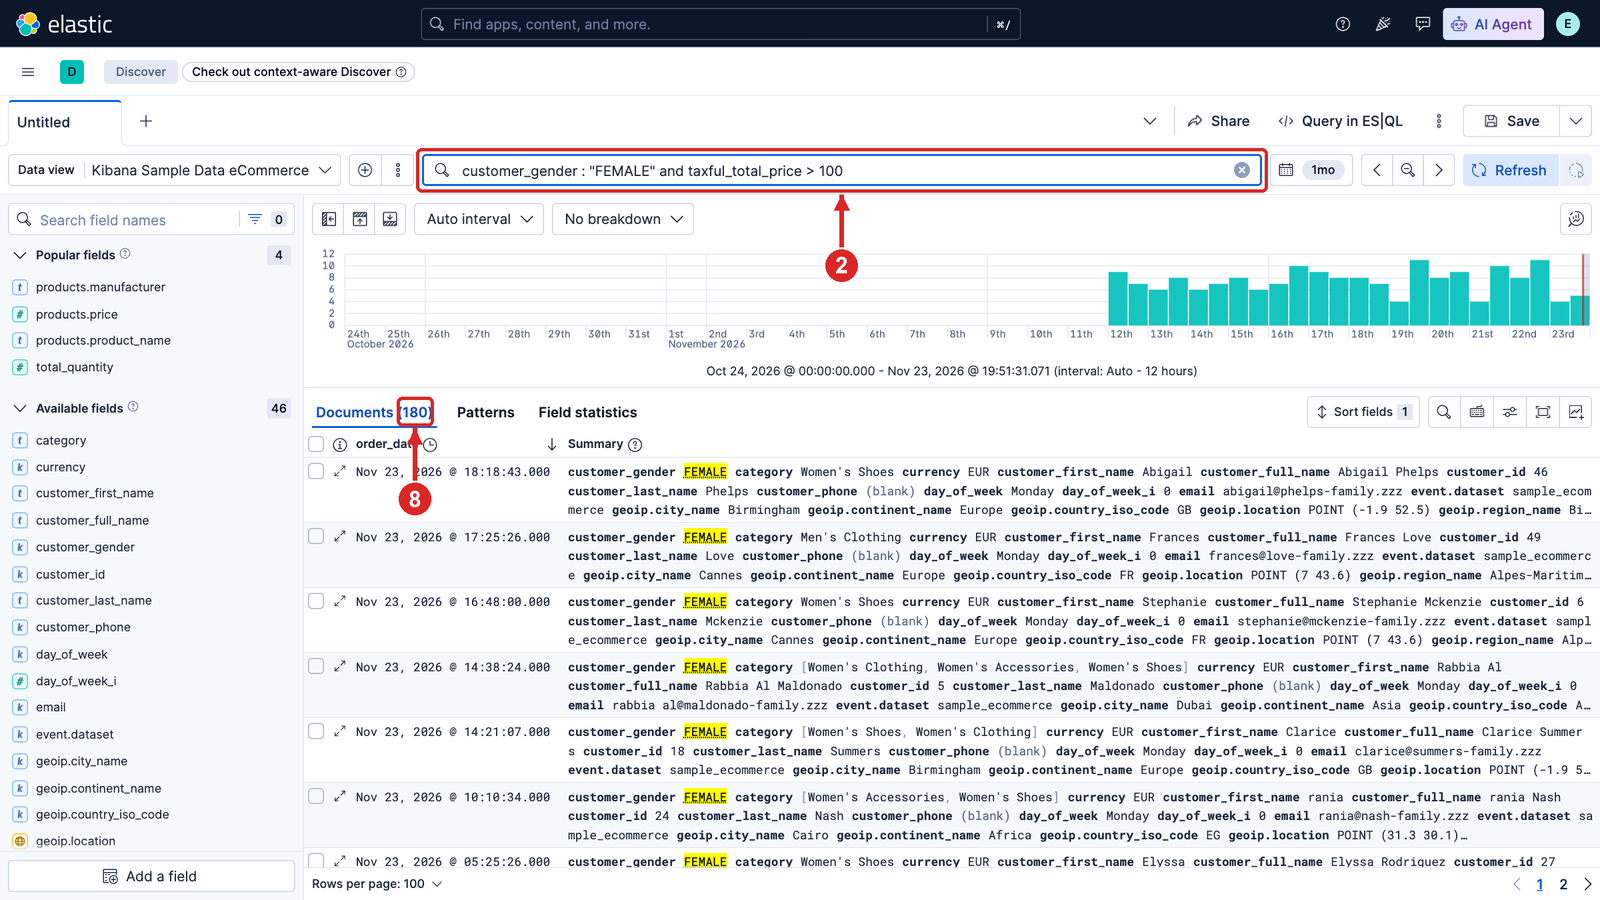
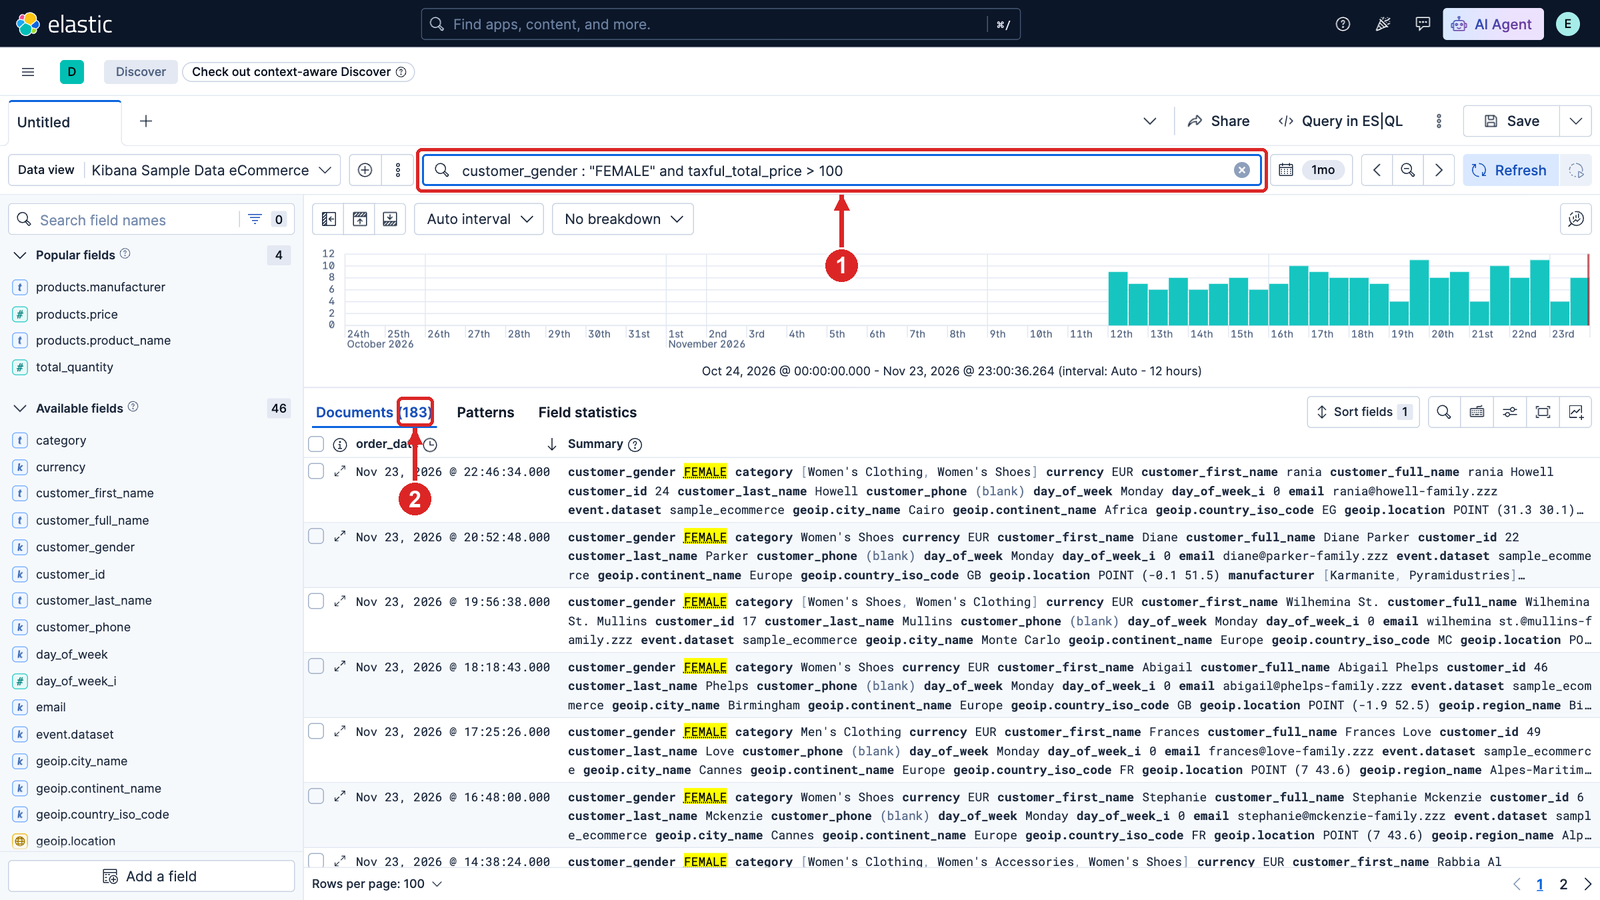
docs+test(LAB-04): saved search added to a dashboard; markers numbered per step
- Step 5 box "Kayıtlı aramayı panoya eklemek": Add > From library, saved search as a panel, dashboard "Kadın siparişleri"
- Screenshot markers renumbered from 1 in every step (text and alt texts match)
- teardown.sh also deletes the dashboard "Kadın siparişleri"
- shots_lab04.py: waits for the filter result to refresh before the screenshot (old shot could show the KQL count);
  library search needs Enter

Test (34.141.96.128, Kibana 9.5.5, base d49763e): teardown -> README runner PASS=4 FAIL=0;
UI flows discover + pano in README order: KQL 183, two filters 199, dashboard panel 1 with 199 documents;
teardown output "pano -> 1", "kayitli arama -> 1"; link_kontrol kirik link 0; komut denetimi AYNI.

diff --git a/scripts/screenshots/shots_lab04.py b/scripts/screenshots/shots_lab04.py
@@ -62,9 +62,9 @@ def discover(page):
     page.locator('[data-test-subj="field-customer_gender-showDetails"]').first.click(); time.sleep(2)
     k.shoot(page, LAB, "03-discover-tur", [
         (("testsubj", "discover-dataView-switch-link"), 1, "down"),
-        (("testsubj", "dateRangePickerControlButton"), 4, "down"),
-        (("testsubj", "field-customer_gender-showDetails"), 6, "right"),
-        (("css", '[data-test-subj="docTableExpandToggleColumn"] button, [data-test-subj="docTableExpandToggleColumn"]'), 10, "right"),
+        (("testsubj", "dateRangePickerControlButton"), 2, "down"),
+        (("testsubj", "field-customer_gender-showDetails"), 3, "right"),
+        (("css", '[data-test-subj="docTableExpandToggleColumn"] button, [data-test-subj="docTableExpandToggleColumn"]'), 4, "right"),
     ])
     page.keyboard.press("Escape"); time.sleep(1)
 
@@ -73,8 +73,8 @@ def discover(page):
     ana = sayi(page)
     print("ANA", ana)
     k.shoot(page, LAB, "04-discover-kql", [
-        (("testsubj", "queryInput"), 2, "down"),
-        (("testsubj", "discoverQueryHits"), 8, "down"),
+        (("testsubj", "queryInput"), 1, "down"),
+        (("testsubj", "discoverQueryHits"), 2, "down"),
     ])
     for soru, q in SORULAR:
         sorgu(page, q)
@@ -98,11 +98,16 @@ def discover(page):
         return page.locator('[data-test-subj="saveFilter"]').first
     kaydet = filtre("customer_gender", "is", ["FEMALE"])
     k.shoot(page, LAB, "05-filtre", [
-        (("testsubj", "addFilter"), 3, "down"),
+        (("testsubj", "addFilter"), 1, "down"),
         (("testsubj", "filterParams"), None, "left"),
     ])
     kaydet.click(); k.settle(page, 4)
+    once = sayi(page)
     filtre("taxful_total_price", "is between", ["100"]).click(); k.settle(page, 5)
+    for _ in range(30):  # sonuc yenilenmeden ekran alinmasin (Cancel kalkip sayi degisene kadar)
+        if sayi(page) != once and not page.get_by_role("button", name="Cancel").count():
+            break
+        time.sleep(1)
     fsay = sayi(page)
     print(f"FILTRE KQL={ana} filtre={fsay}")
     k.shoot(page, LAB, "06-filtre-etiket", [
@@ -116,7 +121,7 @@ def discover(page):
     st = page.locator('[data-test-subj="storeTimeWithSearch"]').first
     print("STORE_TIME varsayilan:", st.get_attribute("aria-checked"), st.is_checked() if st.count() else None)
     k.shoot(page, LAB, "07-discover-kaydet", [
-        (("testsubj", "savedObjectTitle"), 12, "left"),
+        (("testsubj", "savedObjectTitle"), 1, "left"),
         (("testsubj", "storeTimeWithSearch"), None, "left"),
     ])
     page.locator('[data-test-subj="confirmSaveSavedObjectButton"]').first.click(); k.settle(page, 5)
@@ -124,7 +129,7 @@ def discover(page):
     # Adim 6: Inspect
     page.locator('[data-test-subj="app-menu-overflow-button"]').first.click(); time.sleep(1.5)
     k.shoot(page, LAB, "08-discover-inspect-menu", [
-        (("role", "menuitem", "Inspect tab"), 13, "left"),
+        (("role", "menuitem", "Inspect tab"), 1, "left"),
     ])
     page.get_by_role("menuitem", name="Inspect tab").first.click(); time.sleep(3)
     if page.locator('[data-test-subj="inspectorViewChooser"]').count():
@@ -132,8 +137,8 @@ def discover(page):
         page.locator('[data-test-subj="inspectorViewChooserRequests"]').first.click(); time.sleep(2)
     page.locator('[data-test-subj="inspectorRequestDetailRequest"]').first.click(); time.sleep(2)
     k.shoot(page, LAB, "09-discover-inspect", [
-        (("testsubj", "inspectorRequestDetailRequest"), 14, "up"),
-        (("testsubj", "inspectorRequestCodeViewerContainer"), 15, None),
+        (("testsubj", "inspectorRequestDetailRequest"), 2, "up"),
+        (("testsubj", "inspectorRequestCodeViewerContainer"), 3, None),
     ])
     metin = page.locator('[data-test-subj="inspectorRequestCodeViewerContainer"]').first.inner_text()
     try:
@@ -144,11 +149,38 @@ def discover(page):
     page.keyboard.press("Escape"); time.sleep(1)
 
 
+def pano(page):
+    """Adim 5 kutusu: kayitli aramayi (Discover session) yeni panoya eklemek."""
+    page.goto(k.BASE + "/app/dashboards#/create", wait_until="domcontentloaded"); k.settle(page, 6)
+    page.locator('[data-test-subj="dashboardAddTopNavButton"]').first.click(); time.sleep(2)
+    page.locator('[data-test-subj="addToDashboardTab-library"]').first.click(); time.sleep(2)
+    page.locator('[data-test-subj="savedObjectFinderSearchInput"]').first.fill("Kadın")
+    page.keyboard.press("Enter")  # arama Enter ile calisir
+    hedef = '[data-test-subj="savedObjectTitleKadın-100-dolar-üstü-siparişler"]'
+    page.locator(hedef).first.wait_for(timeout=15000); time.sleep(1)
+    k.shoot(page, LAB, "10-pano-from-library", [
+        (("testsubj", "addToDashboardTab-library"), 1, "right"),
+        (("testsubj", "savedObjectFinderSearchInput"), 2, "left"),
+        (("css", hedef), 3, "left")])
+    page.locator(hedef).first.click(); k.settle(page, 4)
+    page.keyboard.press("Escape"); time.sleep(1)
+    for b in ('[data-test-subj="euiFlyoutCloseButton"]',):
+        if page.locator(b).count(): page.locator(b).first.click(); time.sleep(1)
+    page.locator('[data-test-subj="dateRangePickerControlButton"]').first.click(); time.sleep(1.5)
+    page.locator('[data-test-subj="dateRangePickerPresetItem-Last_30_days"]').first.click(); k.settle(page, 6)
+    page.locator('[data-test-subj="dashboardInteractiveSaveMenuItem"]').first.click(); time.sleep(2)
+    page.locator('[data-test-subj="savedObjectTitle"]').fill("Kadın siparişleri")
+    page.locator('[data-test-subj="confirmSaveSavedObjectButton"]').first.click(); k.settle(page, 6)
+    page.mouse.move(800, 60); time.sleep(1)
+    print("panel sayisi:", page.locator('[data-test-subj="dashboardPanel"]').count())
+    k.shoot(page, LAB, "11-pano-kayitli-arama", [(("css", '[data-test-subj="dashboardPanel"]'), 4, "right")])
+
+
 if __name__ == "__main__":
     parca = sys.argv[1]
     with sync_playwright() as pw:
         br = pw.chromium.launch(channel="chrome")
         page = br.new_page(viewport={"width": 1600, "height": 900}, device_scale_factor=k.SCALE)
         k.login(page)
-        {"veri": veri, "discover": discover}[parca](page)
+        {"veri": veri, "discover": discover, "pano": pano}[parca](page)
         br.close()

diff --git a/labs/LAB-04-discover-kql/README.md b/labs/LAB-04-discover-kql/README.md
@@ -114,12 +114,12 @@ geçmiş kısmı gösterir (bu koşuda 4675'in 1727'si); sayılar sizde farklıd
 **Soru: Discover ekranında nereye bakarız?**
 
 1. **Discover**'ı açın; **Data view**: **Kibana Sample Data eCommerce** (1)
-2. Zaman kutusu: **Last 30 days** (4)
-3. Field listesinde (6) `customer_gender`'a tıklayın: en sık değerler ve oranları görünür
-4. Bir satırın başındaki genişletme simgesi (10) document'in bütün field'larını açar
+2. Zaman kutusu: **Last 30 days** (2)
+3. Field listesinde (3) `customer_gender`'a tıklayın: en sık değerler ve oranları görünür
+4. Bir satırın başındaki genişletme simgesi (4) document'in bütün field'larını açar
 5. **Field statistics** sekmesi: sorgu yazmadan her field'ın değer dağılımını gösterir
 
-![Discover: 1 data view, 4 zaman, 6 field listesi, 10 document açma](../../assets/screenshots/LAB-04/03-discover-tur.png)
+![Discover: 1 data view, 2 zaman, 3 field listesi, 4 document açma](../../assets/screenshots/LAB-04/03-discover-tur.png)
 
 Üstteki sayı seçili zaman aralığındaki document sayısıdır; histogram aynı document'leri güne göre sayar.
 
@@ -127,15 +127,15 @@ geçmiş kısmı gösterir (bu koşuda 4675'in 1727'si); sayılar sizde farklıd
 
 **Soru:** Son 30 günde 100 dolardan pahalı kadın müşteri siparişleri kaç?
 
-**KQL:** arama çubuğuna (2) yazıp Enter'a basın:
+**KQL:** arama çubuğuna (1) yazıp Enter'a basın:
 
 ```text
 customer_gender : "FEMALE" and taxful_total_price > 100
 ```
 
-**Ekranda:** **Documents** sekmesindeki sayı (8) cevaptır; histogram yalnız bu siparişleri gösterir:
+**Ekranda:** **Documents** sekmesindeki sayı (2) cevaptır; histogram yalnız bu siparişleri gösterir:
 
-![Discover KQL: 2 sorgu, 8 document sayısı](../../assets/screenshots/LAB-04/04-discover-kql.png)
+![Discover KQL: 1 sorgu, 2 document sayısı](../../assets/screenshots/LAB-04/04-discover-kql.png)
 
 - **`customer_gender : "FEMALE"`:** `keyword` field'ında tam değer
 - **`taxful_total_price > 100`:** sayı aralığı; **`and`** ikisi birlikte
@@ -164,10 +164,10 @@ Ana sorgu bu koşuda **180** document buldu.
 **Soru: Aynı koşulu yazmadan, tıklayarak kurabilir miyiz?**
 
 1. Arama çubuğunu temizleyin
-2. Filtre ekleme simgesi (3): **Field** `customer_gender`, **Operator** `is`, **Value** `FEMALE`, **Add filter**
+2. Filtre ekleme simgesi (1): **Field** `customer_gender`, **Operator** `is`, **Value** `FEMALE`, **Add filter**
 3. İkinci filtre: `taxful_total_price`, `is between`, alt sınır `100`, üst sınır boş
 
-![Filtre: 3 filtre ekleme; field, operator, value](../../assets/screenshots/LAB-04/05-filtre.png)
+![Filtre: 1 filtre ekleme; field, operator, value](../../assets/screenshots/LAB-04/05-filtre.png)
 
 Filtreler çubuğun altında birer etiket olur. Document sayısını Adım 3'teki KQL sayısıyla karşılaştırın:
 
@@ -186,27 +186,48 @@ Filtreler çubuğun altında birer etiket olur. Document sayısını Adım 3'tek
 **Soru: Bu aramayı yarın yeniden nasıl açarız?** Kaydederek.
 
 1. Sağ üstte **Save**
-2. Başlık (12): `Kadın 100 dolar üstü siparişler`
+2. Başlık (1): `Kadın 100 dolar üstü siparişler`
 3. **Save and add to library**
 
 Kaydedilen arama (Discover session) data view'ı, sorguyu ve filtreleri tutar; **Open** ile açılır, panoya eklenebilir:
 
-![Discover Save: 12 başlık; altta Store time with Discover session](../../assets/screenshots/LAB-04/07-discover-kaydet.png)
+![Discover Save: 1 başlık; altta Store time with Discover session](../../assets/screenshots/LAB-04/07-discover-kaydet.png)
 
 **Store time with Discover session** varsayılan olarak kapalıdır: kayıtlı arama açılınca o anki zaman kutusu geçerlidir.
 Açarsanız zaman aralığı da aramayla saklanır.
+
+
+<details>
+<summary><strong>Kayıtlı aramayı panoya eklemek</strong></summary>
+
+Kayıtlı arama bir pano paneli olabilir: panoda document listesi olarak görünür ve panonun zaman seçicisine uyar.
+
+1. **Dashboards › Create dashboard**, sonra **Add › From library** (1)
+2. Arama kutusuna (2) `Kadın` yazın; **Kadın 100 dolar üstü siparişler**'e (3) tıklayın; panel eklenir, pencereyi kapatın:
+
+![From library: 1 sekme, 2 arama, 3 kayıtlı arama](../../assets/screenshots/LAB-04/10-pano-from-library.png)
+
+3. Zaman aralığı **Last 30 days**; sağ üstten **Save**, başlık `Kadın siparişleri`, **Save**. Panel (4) aramanın KQL'i ve iki
+   filtresiyle gelir:
+
+![Pano: 4 kayıtlı aramanın paneli](../../assets/screenshots/LAB-04/11-pano-kayitli-arama.png)
+
+- **Bağlı panel:** arama değişirse (Discover'da yeniden **Save**) panodaki panel de değişir.
+- **Sayma ve grafik:** kayıtlı arama liste verir; "kaç tane" ve grafik için Lens panelleri kullanılır.
+
+</details>
 
 ### 6. Arkada ne gidiyor? Inspect
 
 **Soru: Kibana Elasticsearch'e ne gönderiyor?** KQL ve filtreler Query DSL'e çevrilir.
 
-1. Sağ üstteki **⋮** menüsü → **Inspect tab** (13)
+1. Sağ üstteki **⋮** menüsü → **Inspect tab** (1)
 
-![Discover menüsü: ⋮ düğmesi, 13 Inspect tab](../../assets/screenshots/LAB-04/08-discover-inspect-menu.png)
+![Discover menüsü: ⋮ düğmesi, 1 Inspect tab](../../assets/screenshots/LAB-04/08-discover-inspect-menu.png)
 
-2. **Inspector**'da **Request** (14): gönderilen istek (15)
+2. **Inspector**'da **Request** (2): gönderilen istek (3)
 
-![Inspector: 14 Request sekmesi, 15 gönderilen Query DSL](../../assets/screenshots/LAB-04/09-discover-inspect.png)
+![Inspector: 2 Request sekmesi, 3 gönderilen Query DSL](../../assets/screenshots/LAB-04/09-discover-inspect.png)
 
 Filtreler bir `bool` sorgusunun `filter` bölümüne dönüştü:
 
@@ -237,7 +258,7 @@ karşılaştırın; sayıyı ve en az bir document'i kontrol edin.
 
 ## Temizlik
 
-Yalnız bu labın kayıtlı aramasını (**Kadın 100 dolar üstü siparişler**) siler. Örnek e-ticaret verisi
+Yalnız bu labın kayıtlı aramasını (**Kadın 100 dolar üstü siparişler**) ve kutudaki **Kadın siparişleri** panosunu siler. Örnek e-ticaret verisi
 sonraki lablarda kullanılır, silinmez:
 
 ```bash
@@ -247,8 +268,11 @@ sonraki lablarda kullanılır, silinmez:
 Beklenen çıktı:
 
 ```text
+pano (Kadın siparişleri) -> 1
 kayitli arama (Kadın 100 dolar üstü siparişler) -> 1
 ```
+
+Kutuyu yapmadıysanız pano satırında `0` yazar.
 
 Labı aynı sunucuda yeniden yapacaksanız başlamadan önce `./teardown.sh` çalıştırın; README'deki sayılar temiz
 başlangıca göredir.
